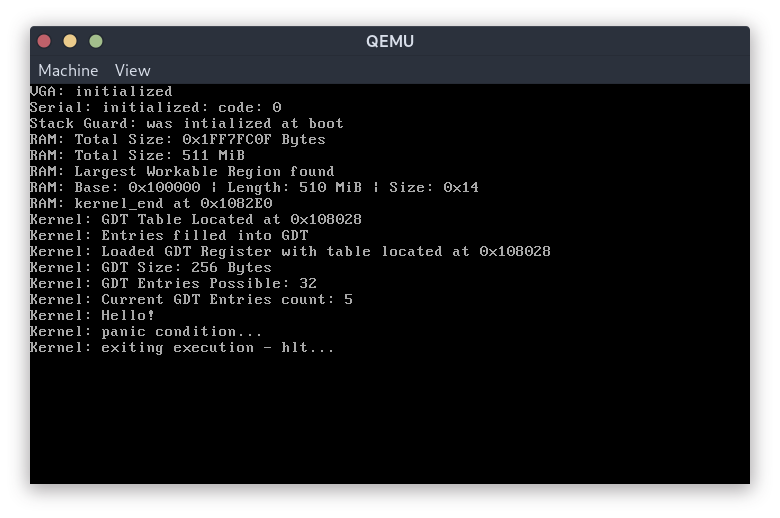
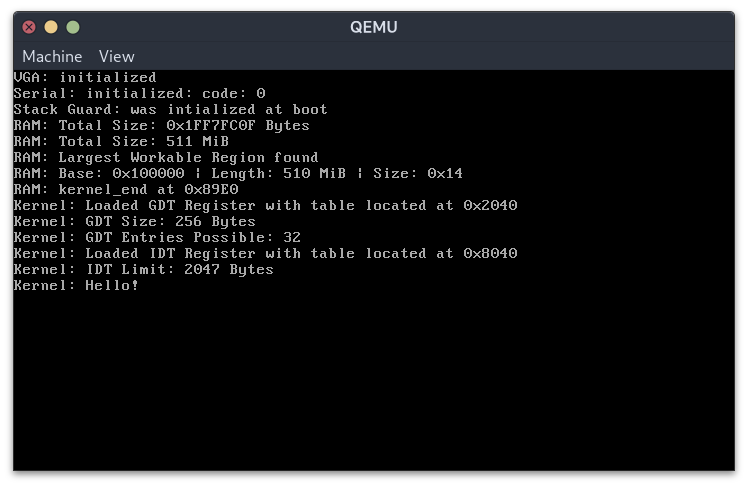
sinkhole: readme.md

Changed region(s): [[0.0, 0.0, 1.0, 0.9856], [0.492, 0.462, 0.7072, 0.5236]]

diff --git a/README.md b/README.md
@@ -11,7 +11,7 @@ Project sinkhole is an attempt at creating a small, simple, experimental Operati
 - [ ] Debugging
 - [ ] File System
 - [x] Global Descriptor Table
-- [ ] Interrupts (IDT, IDTR)
+- [x] Interrupts (IDT, IDTR)
 - [ ] Keyboard Input
 - [ ] Libc
 - [ ] Major Drivers
@@ -24,9 +24,9 @@ Project sinkhole is an attempt at creating a small, simple, experimental Operati
 - [x] Stack Smashing Protection
 - [x] VGA Output
 
-| Qemu Output | Serial Port Log |
-|-------------|-----------------|
-| ![](images/qemu.png) | ![](images/serial.png) |
+| Qemu Output |
+|-------------|
+| ![](images/qemu.png) |
 
 ### Current Ideas
 
